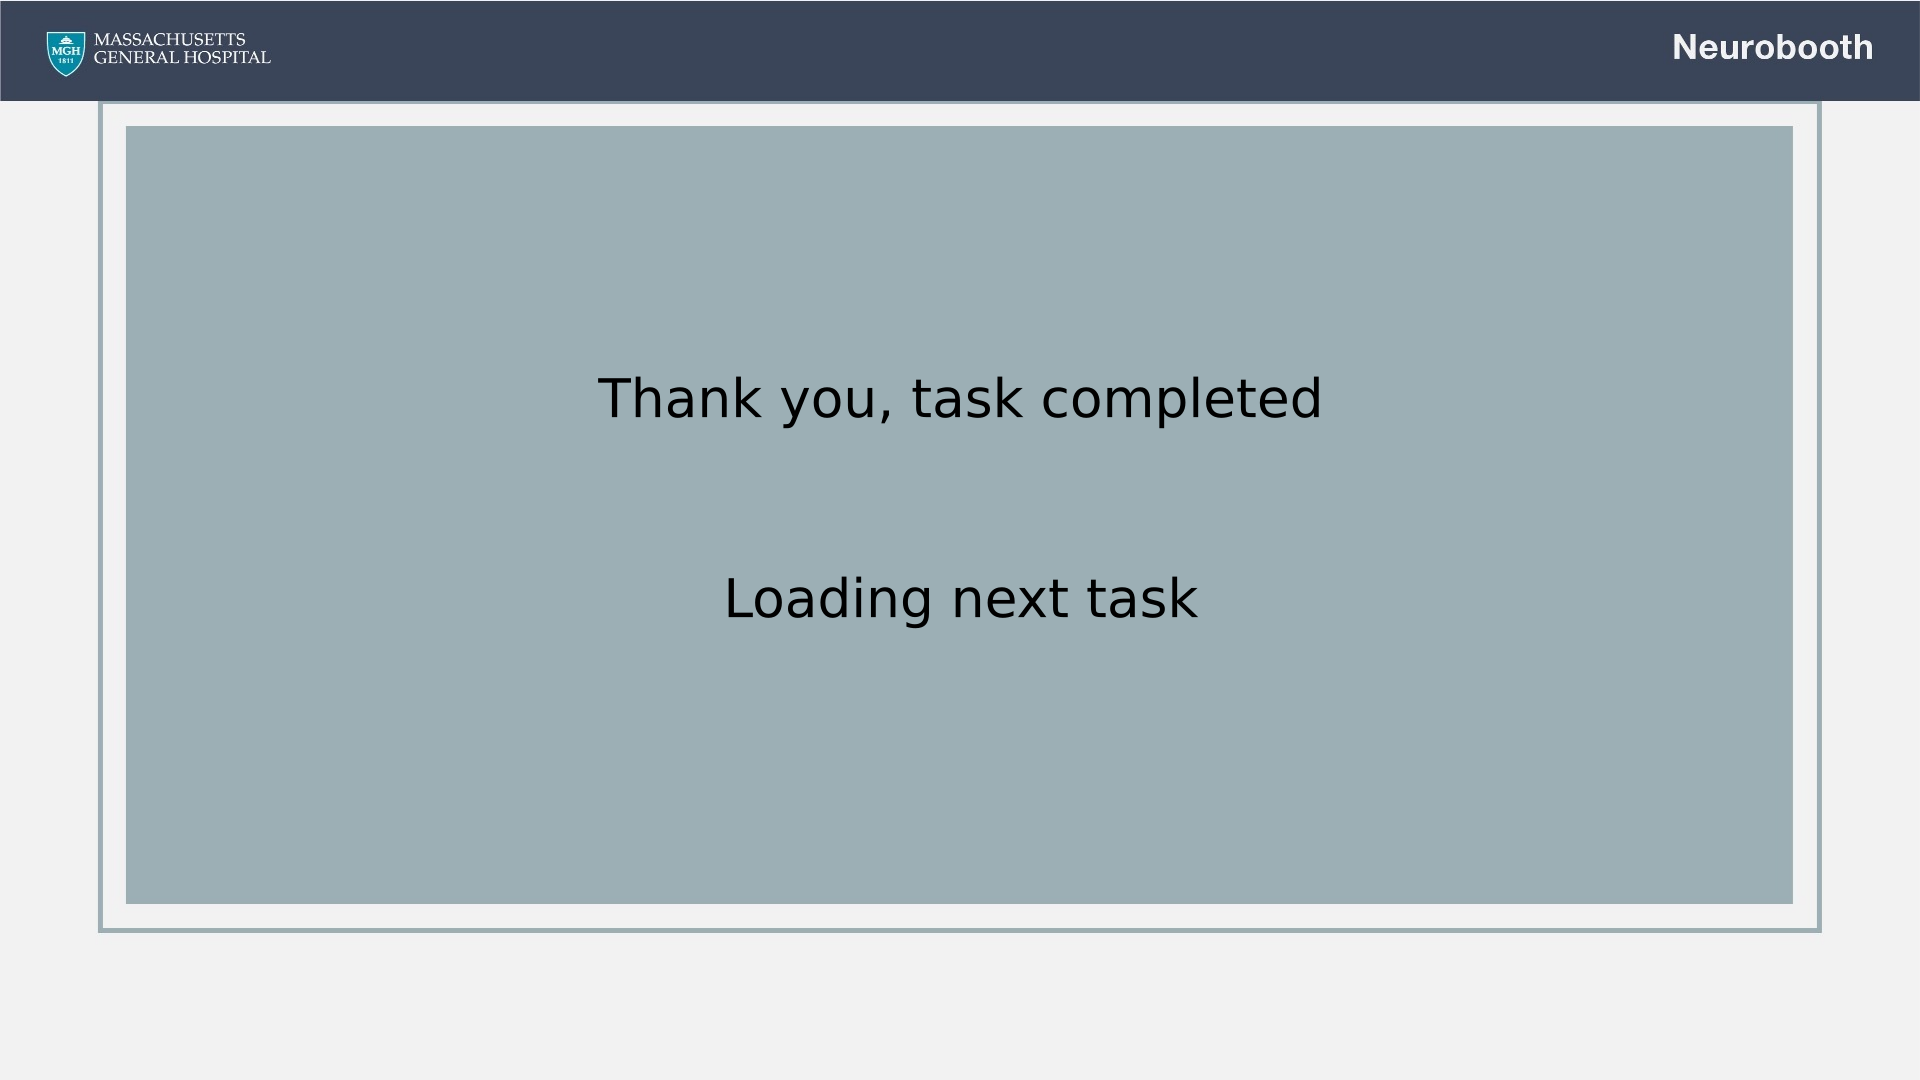
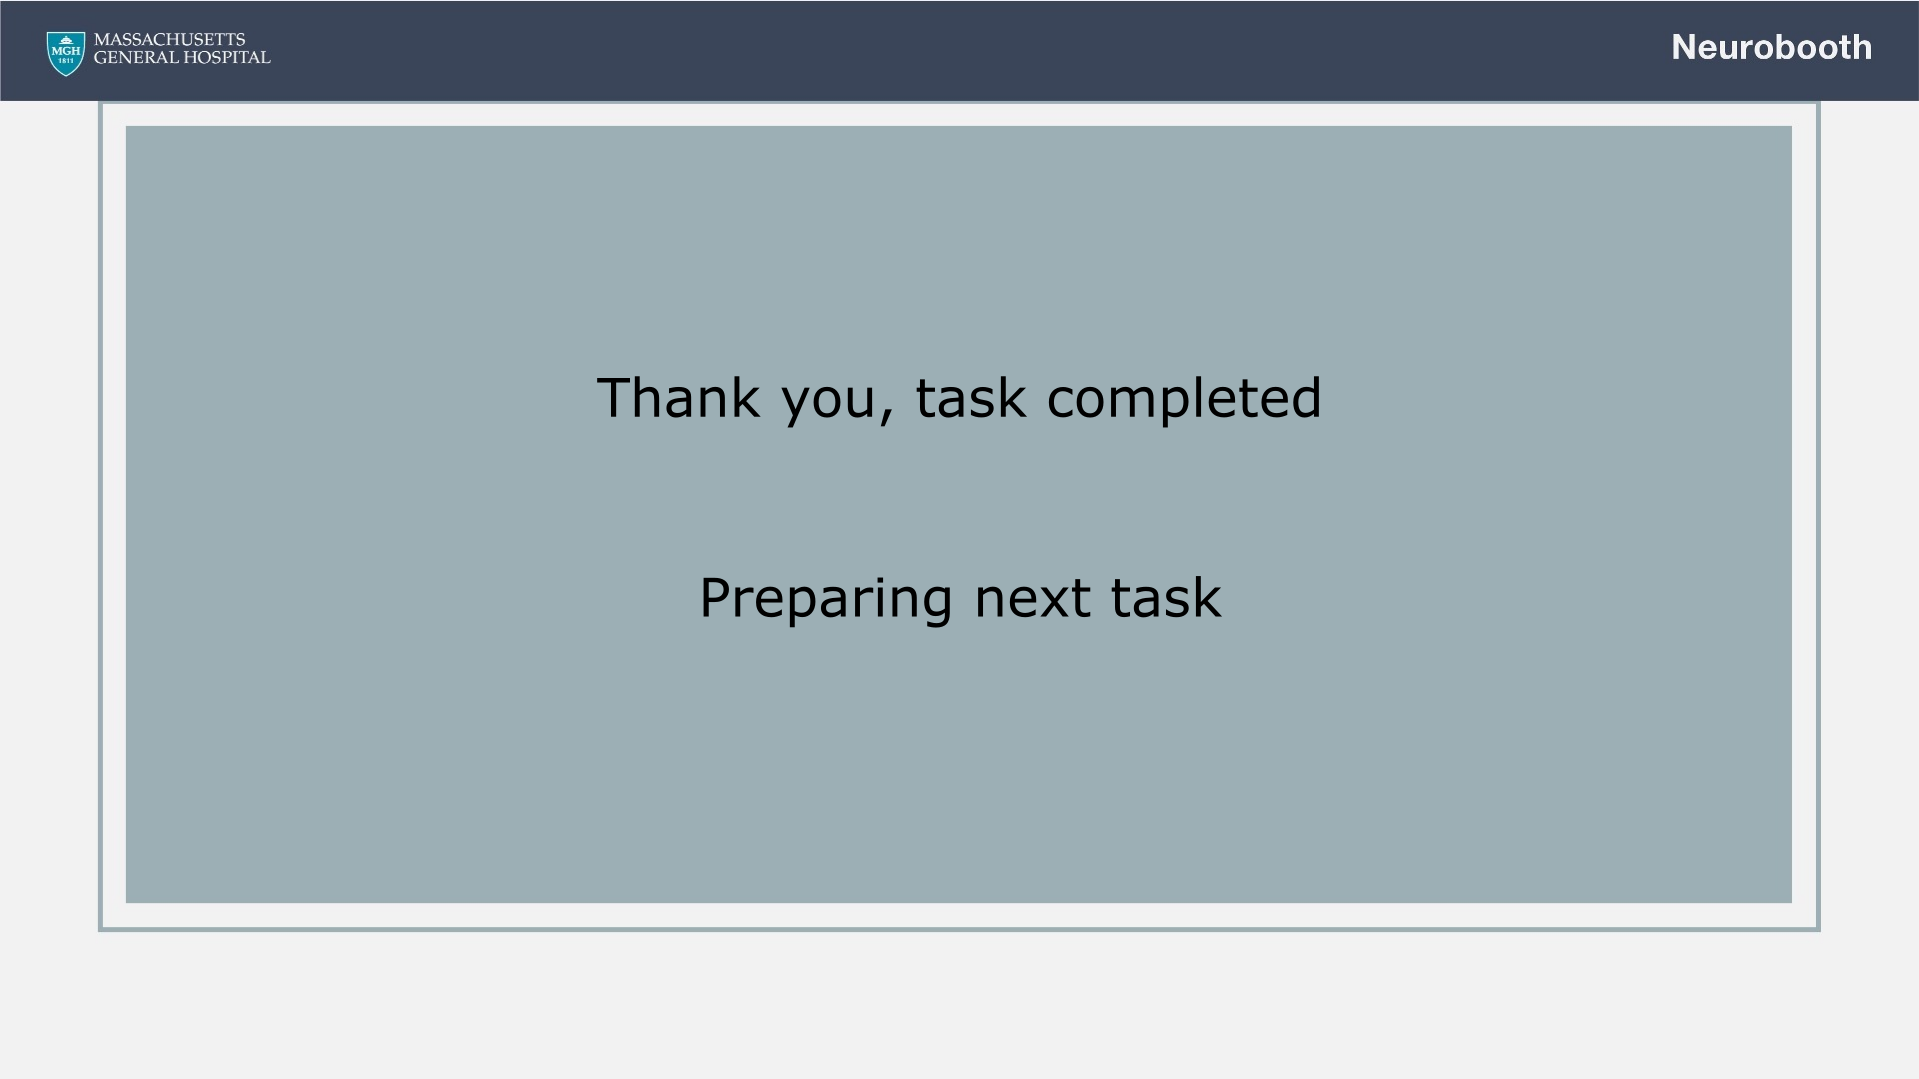
Slide imgs (#160)
* fix name oulets

* Fix outlets name and marker mock

* folder base

* session folder

* upd img slides

Changed region(s): [[0.3382, 0.3364, 0.6764, 0.3976], [0.3689, 0.5199, 0.6456, 0.5811]]

diff --git a/neurobooth_os/tasks/wellcome_finish_screens.py b/neurobooth_os/tasks/wellcome_finish_screens.py
@@ -41,7 +41,7 @@ def welcome_screen(with_audio=True, win=None):
 
 
 def finish_screen(win):
-    fname = op.join(neurobooth_os.__path__[0], 'tasks/assets/NB2.jpg')
+    fname = op.join(neurobooth_os.__path__[0], 'tasks/assets/end_slide_3_7_22.jpg')
     finish = visual.ImageStim(win, fname, units='pix')
     utl.present(win, finish, None, 2)
     # win.close()
